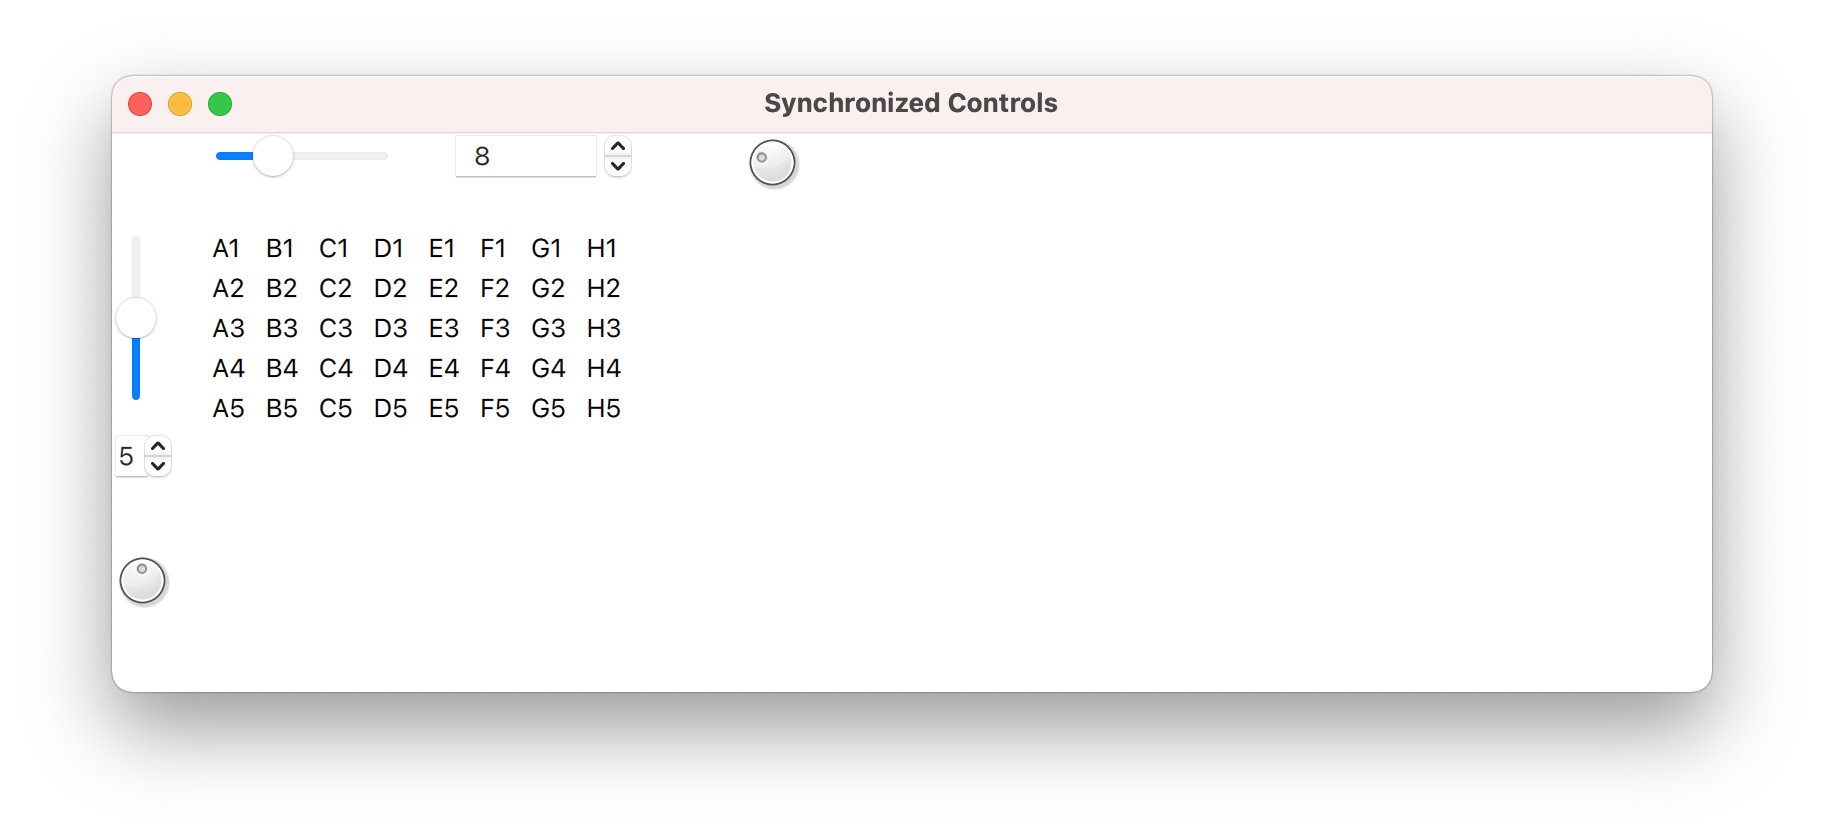
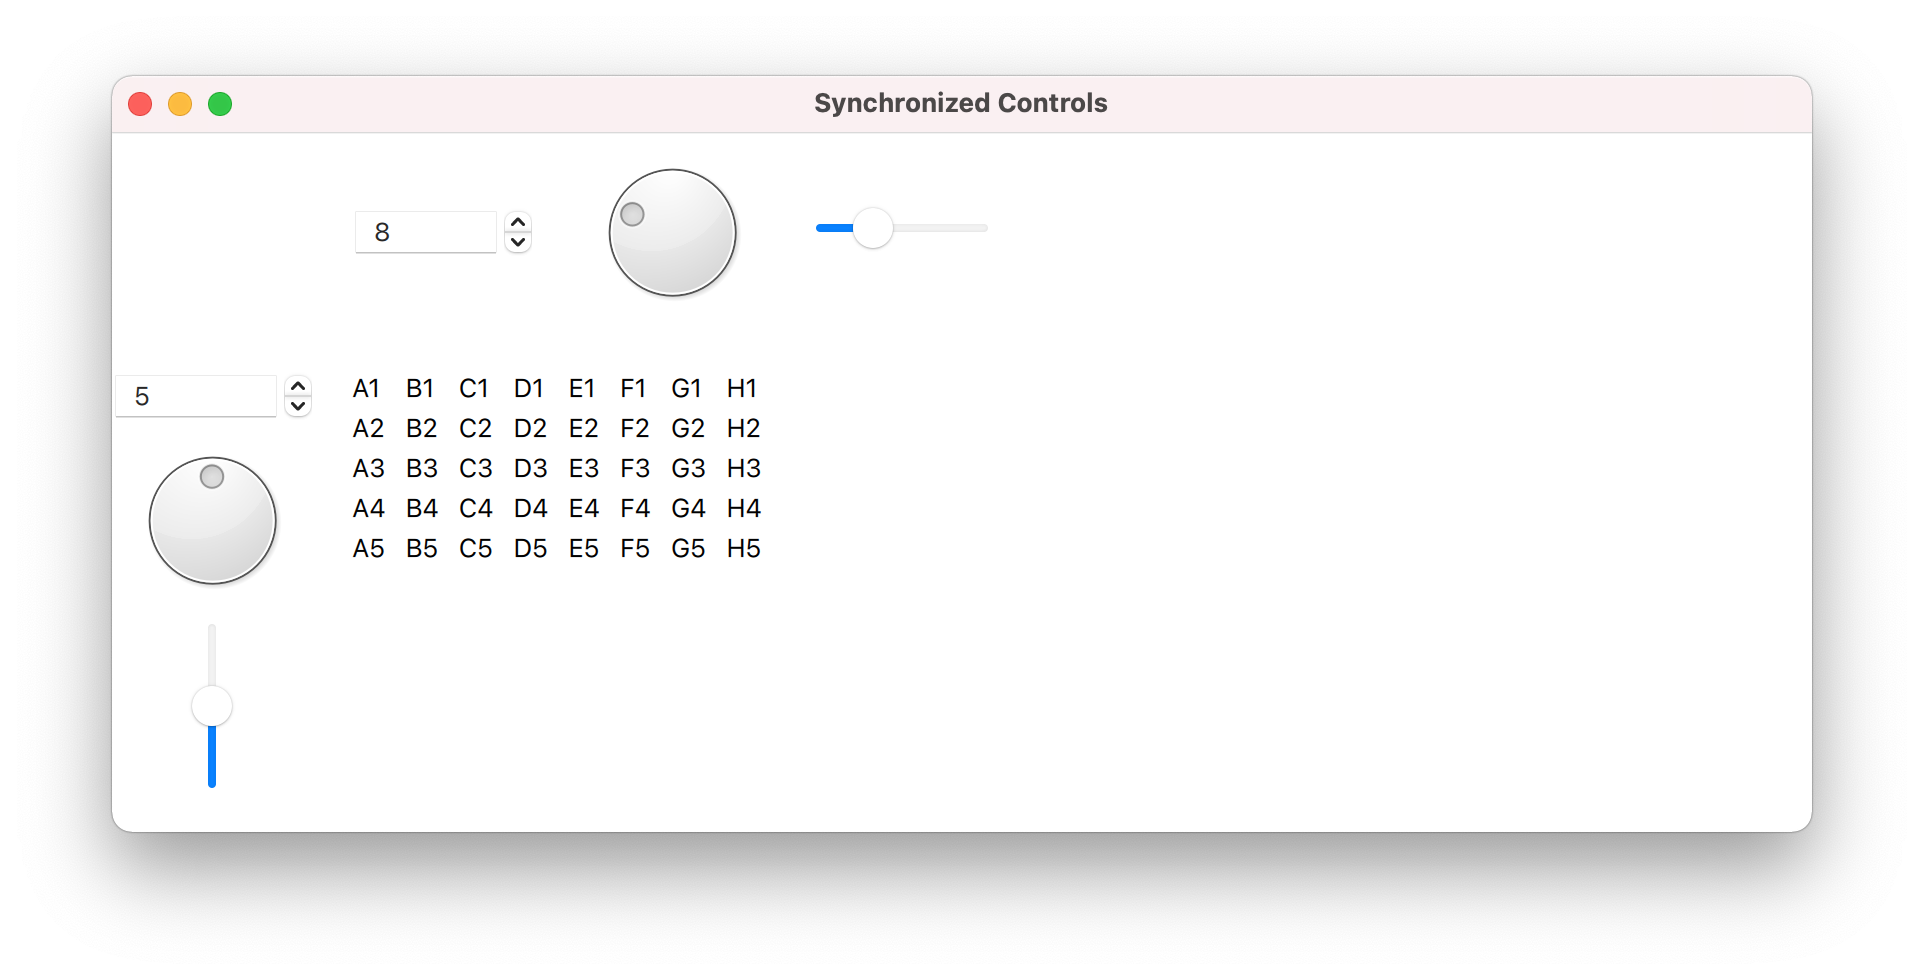
Adjust synchronized controls layout to look OK in both desktop and browser apps.

diff --git a/4_synchronized_controls/src/AdjustableTable.qml b/4_synchronized_controls/src/AdjustableTable.qml
@@ -27,20 +27,11 @@ Item {
         }
 
         Row {
-            height: 30
+            height: 100
             spacing: 30
-            Slider {
-                id: nColsSlider
-                orientation: Qt.Horizontal
-                from: 1
-                to: adjustableTableModel.nColsMax
-                value: adjustableTable.nCols
-                onValueChanged: {
-                    adjustableTable.nCols = value
-                }
-            }
             SpinBox {
                 id: nColsSpinBox
+                anchors.verticalCenter: parent.verticalCenter
                 from: 1
                 to: adjustableTableModel.nColsMax
                 value: adjustableTable.nCols
@@ -58,21 +49,22 @@ Item {
                     adjustableTable.nCols = value
                 }
             }
+            Slider {
+                id: nColsSlider
+                orientation: Qt.Horizontal
+                anchors.verticalCenter: parent.verticalCenter
+                from: 1
+                to: adjustableTableModel.nColsMax
+                value: adjustableTable.nCols
+                onValueChanged: {
+                    adjustableTable.nCols = value
+                }
+            }
         }
 
         Column {
-            width: 30
+            width: 100
             spacing: 10
-            Slider {
-                id: nRowsSlider
-                orientation: Qt.Vertical
-                from: adjustableTableModel.nRowsMax
-                to: 1
-                value: adjustableTable.nRows
-                onValueChanged: {
-                    adjustableTable.nRows = value
-                }
-            }
             SpinBox {
                 id: nRowsSpinBox
                 width: parent.width // needed to specify this -- shouldn't it happen automatically?
@@ -88,6 +80,17 @@ Item {
                 width: parent.width // needed to specify this -- shouldn't it happen automatically?
                 from: 1
                 to: adjustableTableModel.nRowsMax
+                value: adjustableTable.nRows
+                onValueChanged: {
+                    adjustableTable.nRows = value
+                }
+            }
+            Slider {
+                id: nRowsSlider
+                orientation: Qt.Vertical
+                anchors.horizontalCenter: parent.horizontalCenter
+                from: adjustableTableModel.nRowsMax
+                to: 1
                 value: adjustableTable.nRows
                 onValueChanged: {
                     adjustableTable.nRows = value

diff --git a/4_synchronized_controls/src/main.qml b/4_synchronized_controls/src/main.qml
@@ -1,8 +1,8 @@
 import QtQuick
 
 Window {
-    width: 800
-    height: 280
+    width: 850
+    height: 350
     visible: true
     title: qsTr("Synchronized Controls")
 

diff --git a/4_synchronized_controls/README.md b/4_synchronized_controls/README.md
@@ -48,3 +48,9 @@ The same google-test suite from exercise two defines the variability of the adju
 
 ![Running on the desktop 1](Desktop1.png)
 ![Running on the desktop 2](Desktop2.png)
+
+
+## Browser Application
+
+![Running in a browser1](Browser1.png)
+![Running in a browser2](Browser2.png)
